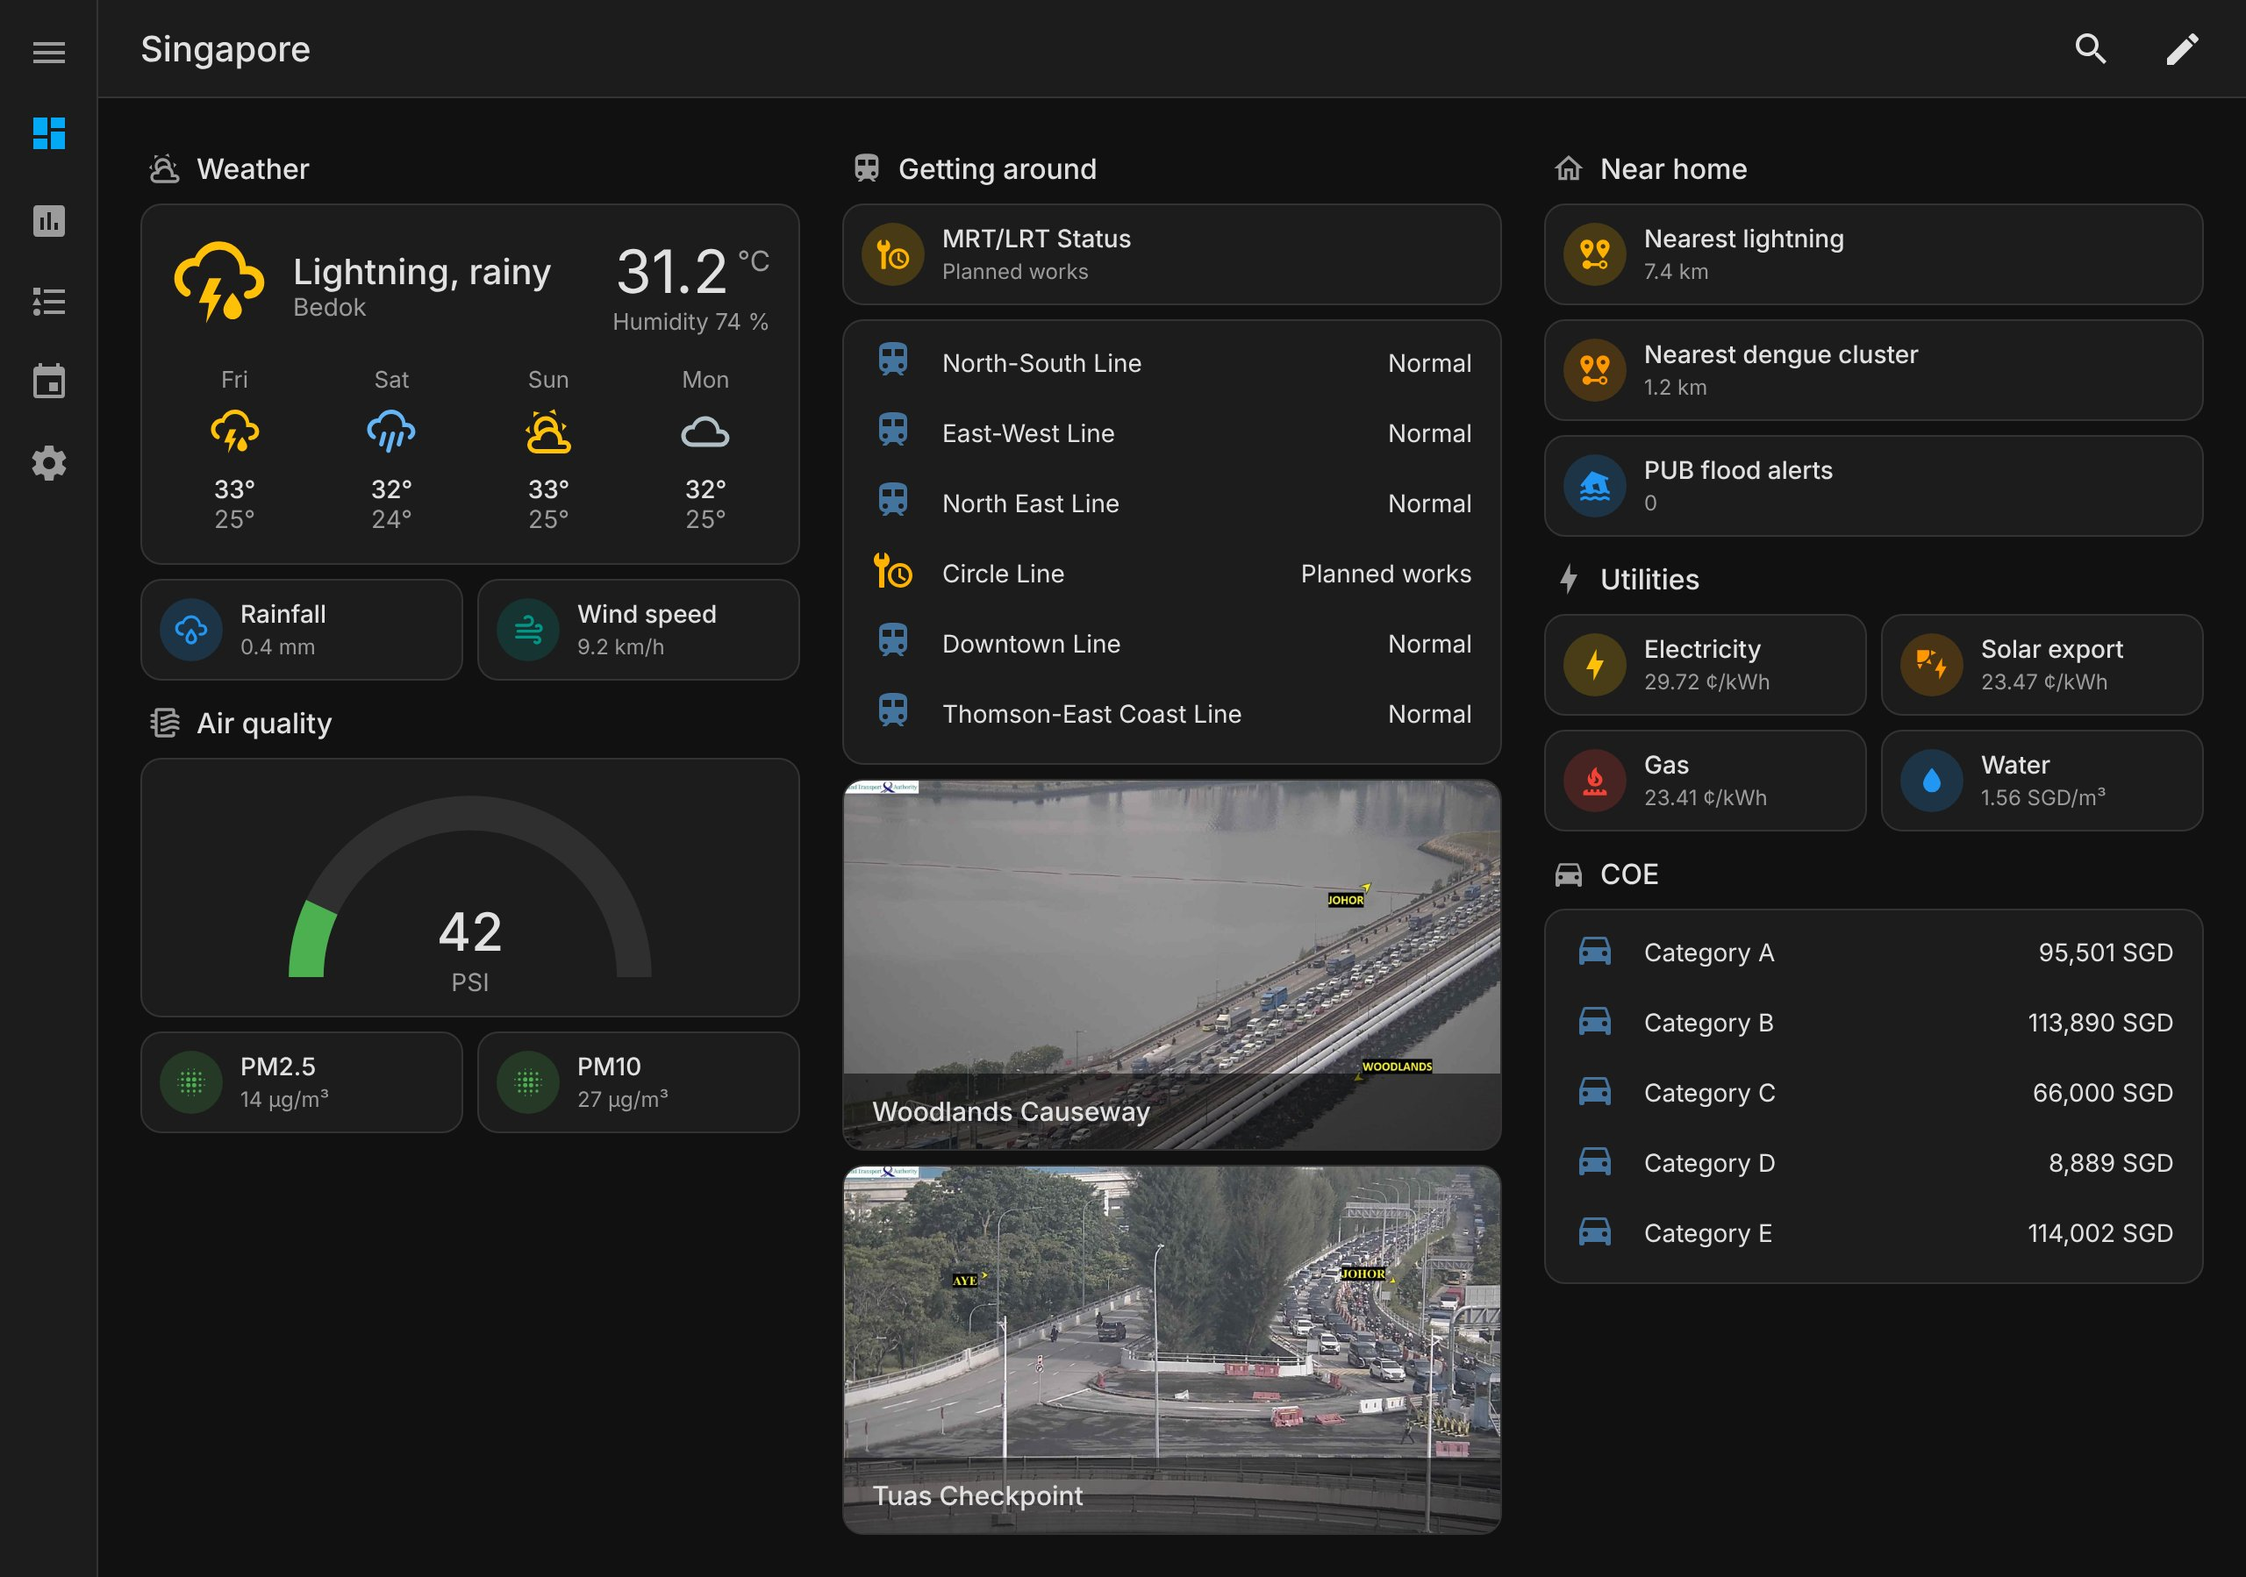
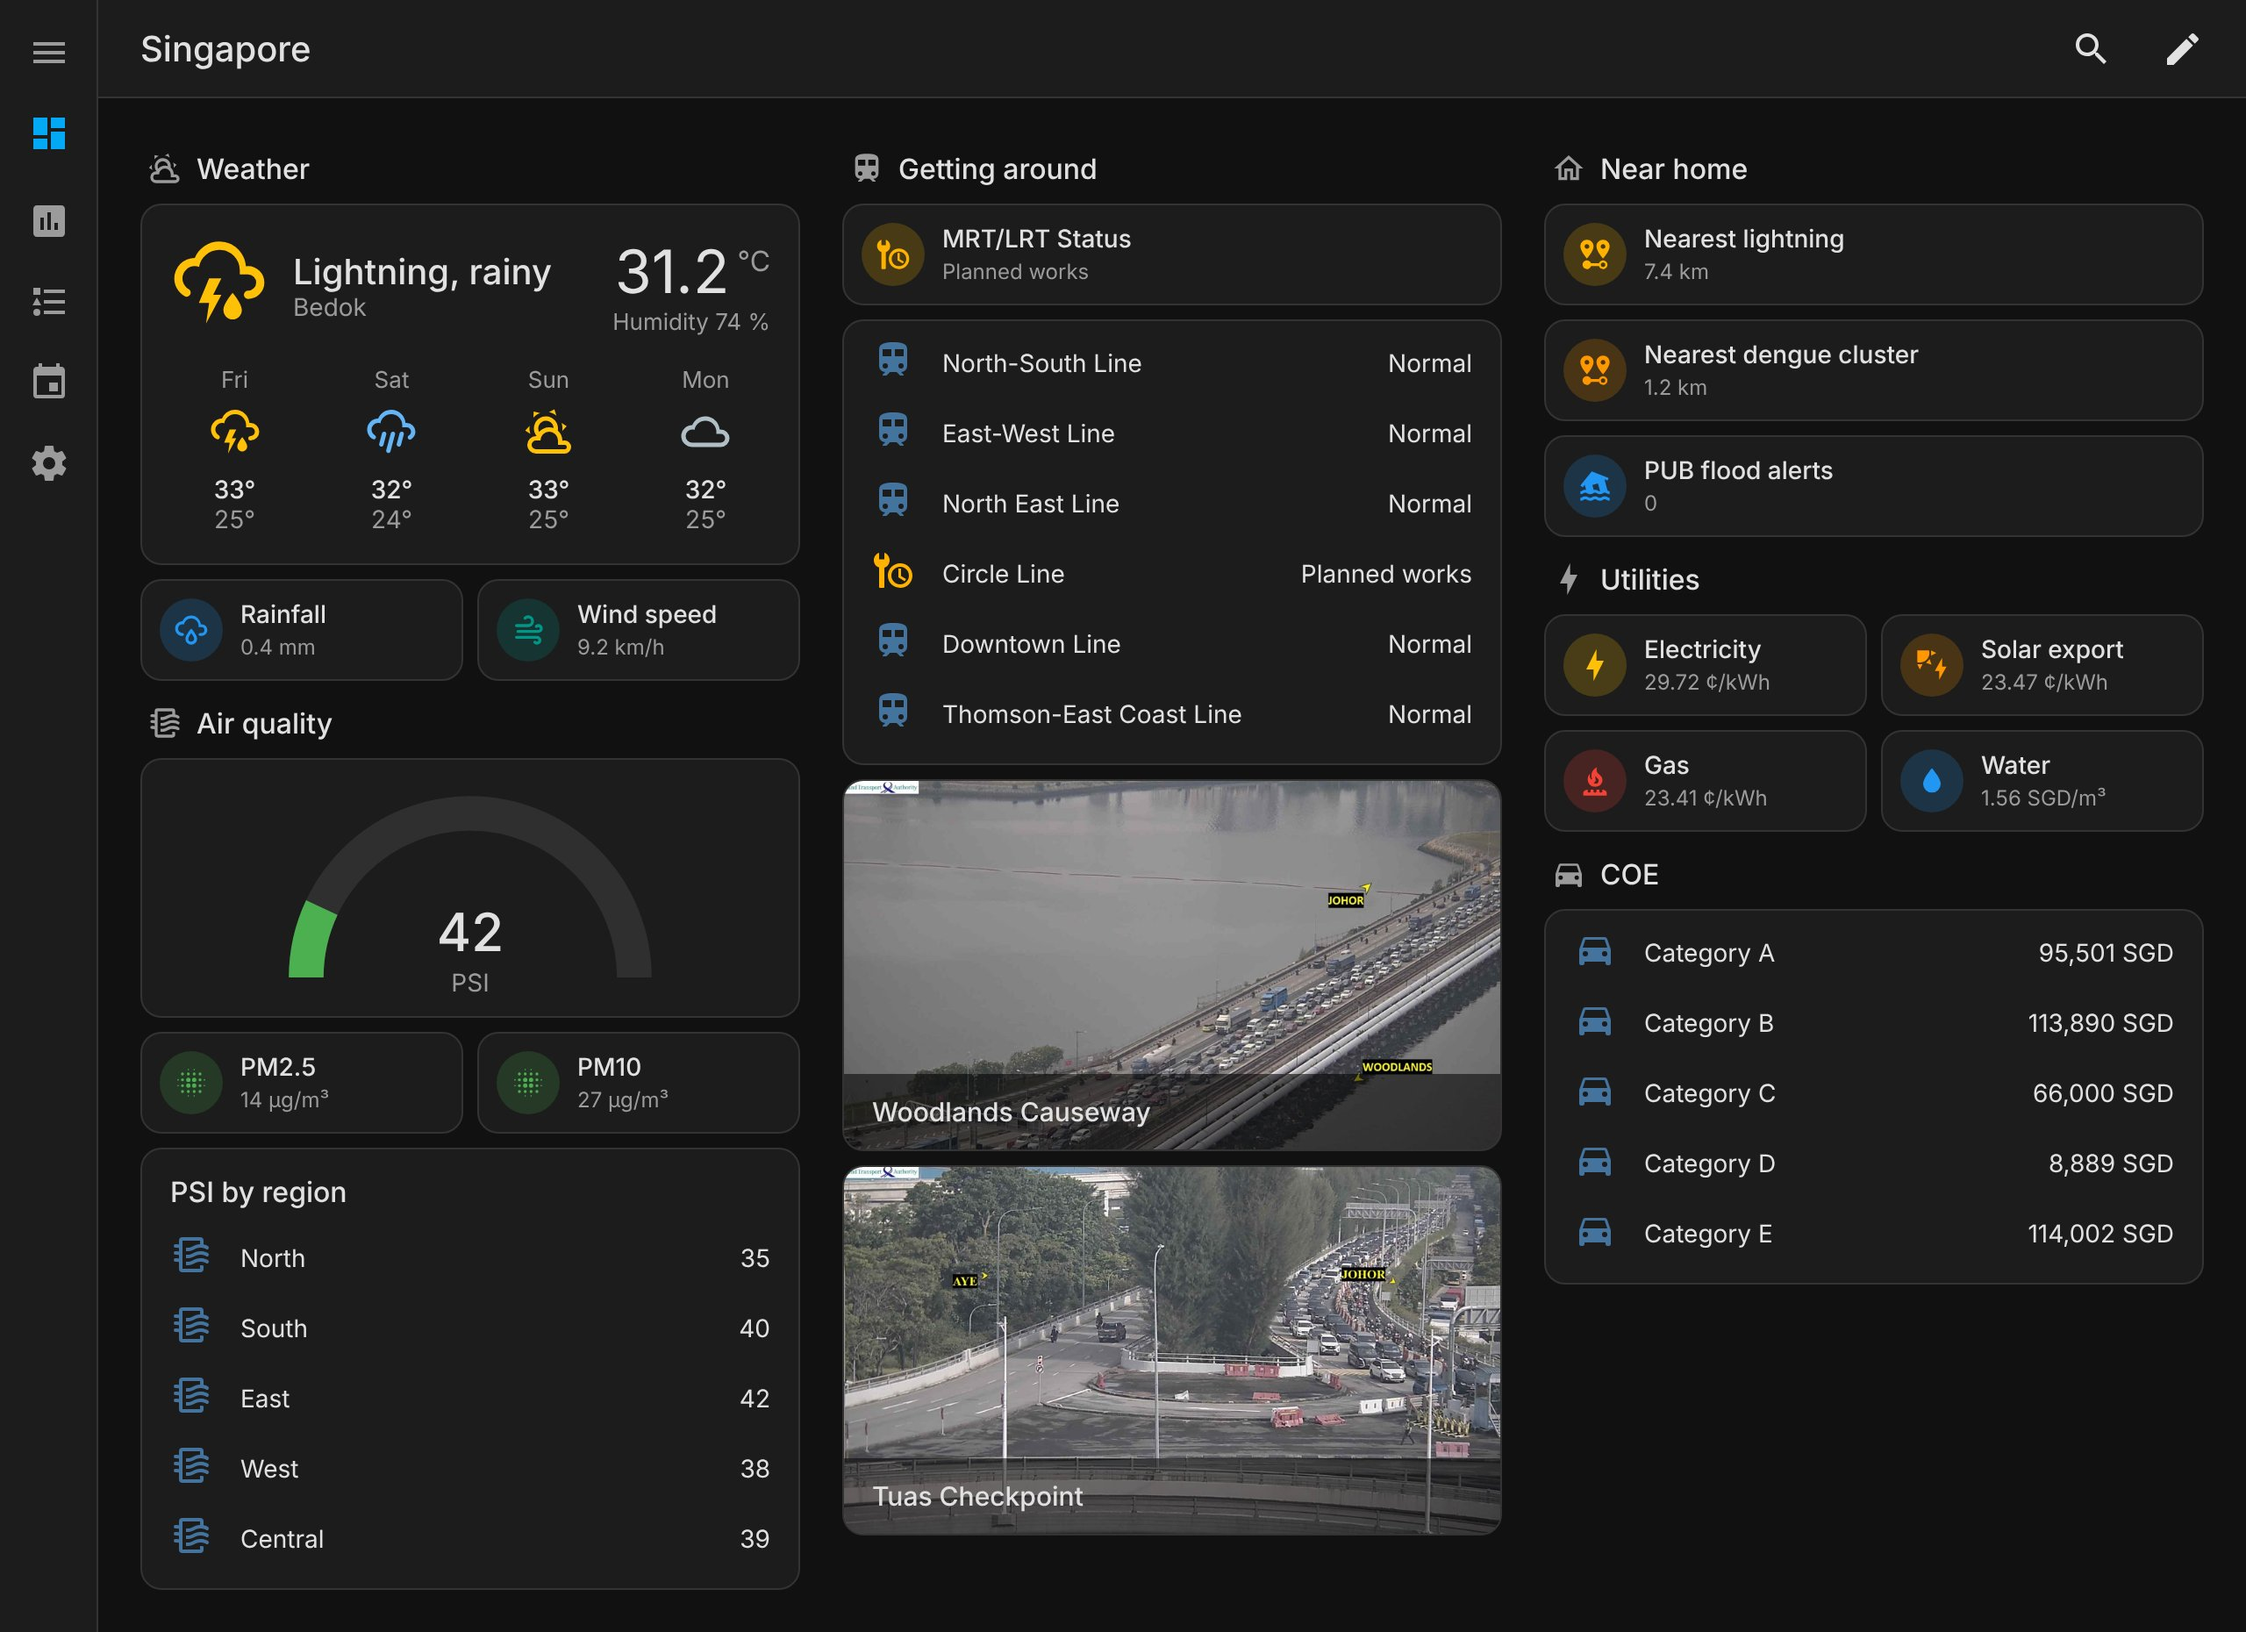
Show PSI by region on the hero dashboard instead of a map image
Drop the illustrative PSI map; the hero dashboard (and
examples/dashboard.yaml) now has an entities card with each region's
24-hour PSI. The Map card YAML stays in the entity reference.

Claude-Session: https://claude.ai/code/session_01SaaNWiQtNkqihcPNvtB5be

diff --git a/docs/mockups/hero.html b/docs/mockups/hero.html
@@ -70,6 +70,13 @@
           <div class="card tile"><span class="bubble" style="--c:var(--green)"><i m="mdiBlur"></i></span><div><div class="name">PM2.5</div><div class="state">14 µg/m³</div></div></div>
           <div class="card tile"><span class="bubble" style="--c:var(--green)"><i m="mdiBlur"></i></span><div><div class="name">PM10</div><div class="state">27 µg/m³</div></div></div>
         </div>
+        <div class="card"><div class="card-title">PSI by region</div><div class="rows">
+          <div class="row"><span class="ic"><i m="mdiAirFilter"></i></span><span class="label">North</span><span class="val">35</span></div>
+          <div class="row"><span class="ic"><i m="mdiAirFilter"></i></span><span class="label">South</span><span class="val">40</span></div>
+          <div class="row"><span class="ic"><i m="mdiAirFilter"></i></span><span class="label">East</span><span class="val">42</span></div>
+          <div class="row"><span class="ic"><i m="mdiAirFilter"></i></span><span class="label">West</span><span class="val">38</span></div>
+          <div class="row"><span class="ic"><i m="mdiAirFilter"></i></span><span class="label">Central</span><span class="val">39</span></div>
+        </div></div>
       </div>
 
       <div class="section">

diff --git a/README.md b/README.md
@@ -23,7 +23,7 @@
 </p>
 
 <p align="center">
-  <img src="images/hero.jpg" alt="Example Singapore dashboard: Bedok weather with a 4-day forecast, PSI gauge, MRT/LRT line status, live Woodlands Causeway and Tuas Checkpoint camera stills, nearest lightning and dengue cluster distances, flood alerts, utility tariffs and COE prices" width="100%">
+  <img src="images/hero.jpg" alt="Example Singapore dashboard: Bedok weather with a 4-day forecast, PSI gauge and PSI by region, MRT/LRT line status, live Woodlands Causeway and Tuas Checkpoint camera stills, nearest lightning and dengue cluster distances, flood alerts, utility tariffs and COE prices" width="100%">
   <br>
   <sub>An example dashboard built only from Home Assistant's built-in cards. The integration provides the entities; <a href="examples/dashboard.yaml">this YAML</a> builds the dashboard. Camera stills are real LTA images.</sub>
 </p>
@@ -183,14 +183,8 @@ actions:
 **Copy the whole dashboard:** [`examples/dashboard.yaml`](examples/dashboard.yaml) builds the dashboard
 at the top of this page. Paste it into a new dashboard's raw configuration editor.
 
-**PSI on a map:** each regional PSI sensor carries `latitude`/`longitude`, so a Map card shows the
-PSI number for each region ([YAML below](#psi-on-the-map)).
-
-<p align="center">
-  <img src="images/psi-map.png" alt="Map card with one PSI circle per Singapore region (north, south, east, west, central)" width="640">
-  <br>
-  <sub>Illustration of the Map card layout. In Home Assistant the circles sit on the regular map tiles.</sub>
-</p>
+**PSI by region:** the hero dashboard lists the 24-hour PSI for each region. Each regional sensor
+also carries `latitude`/`longitude`, so you can put them on a Map card instead ([YAML below](#psi-on-the-map)).
 
 **Checkpoint cameras:** a picture-entity card per camera gives you a quick look at the Causeway and Second Link queues.
 
